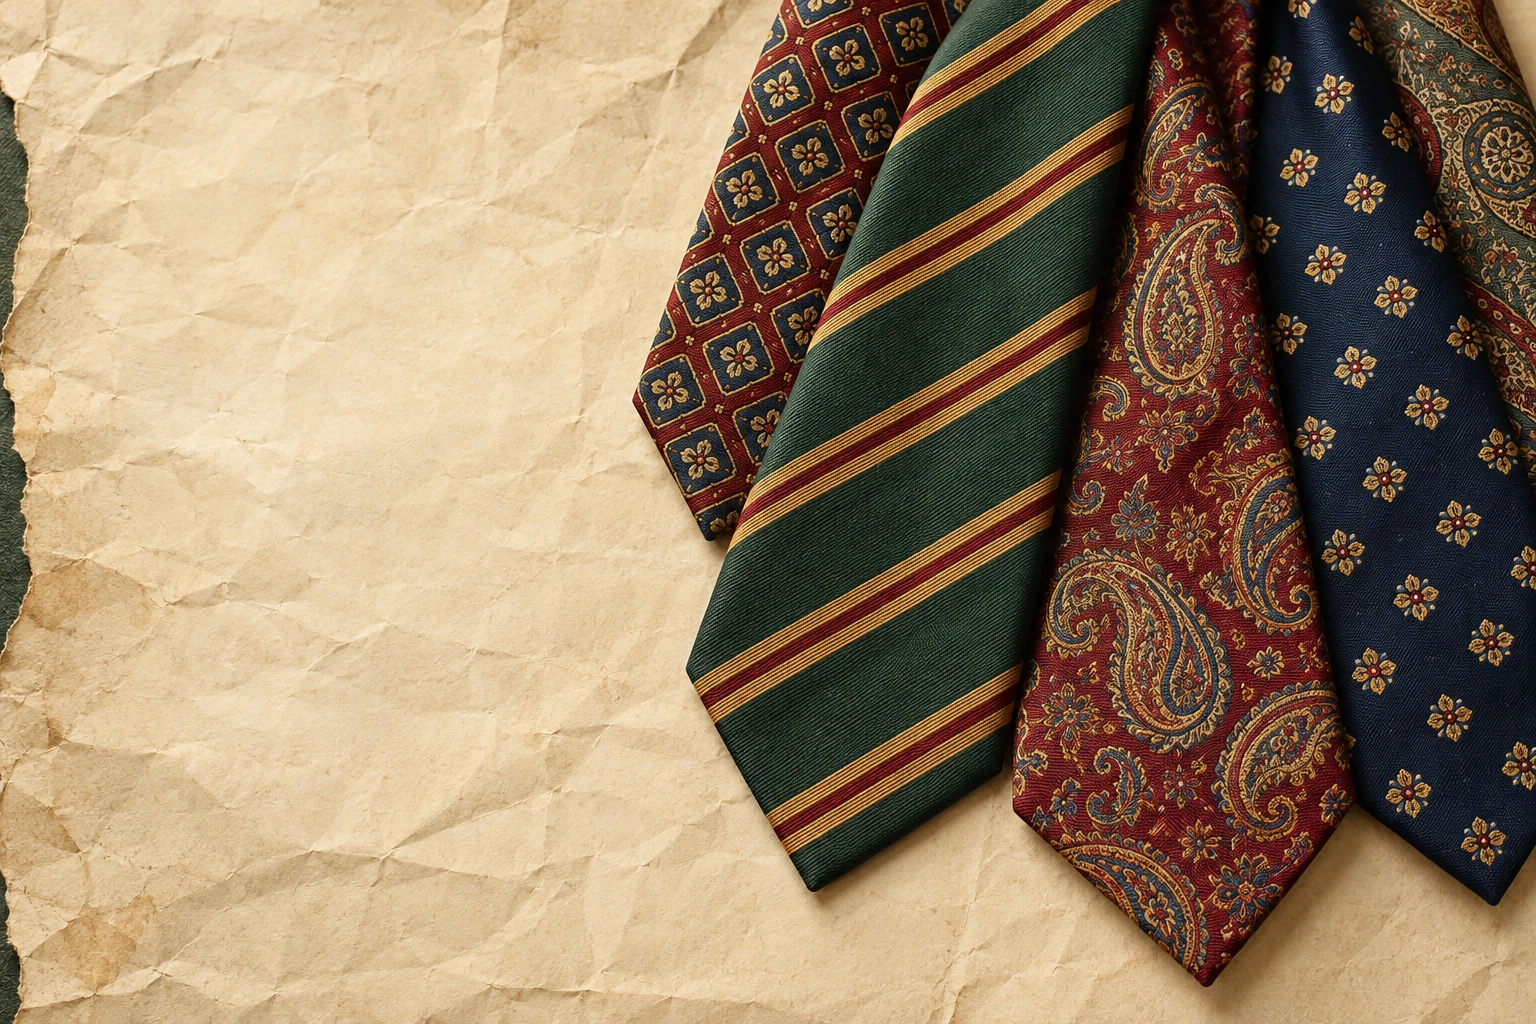
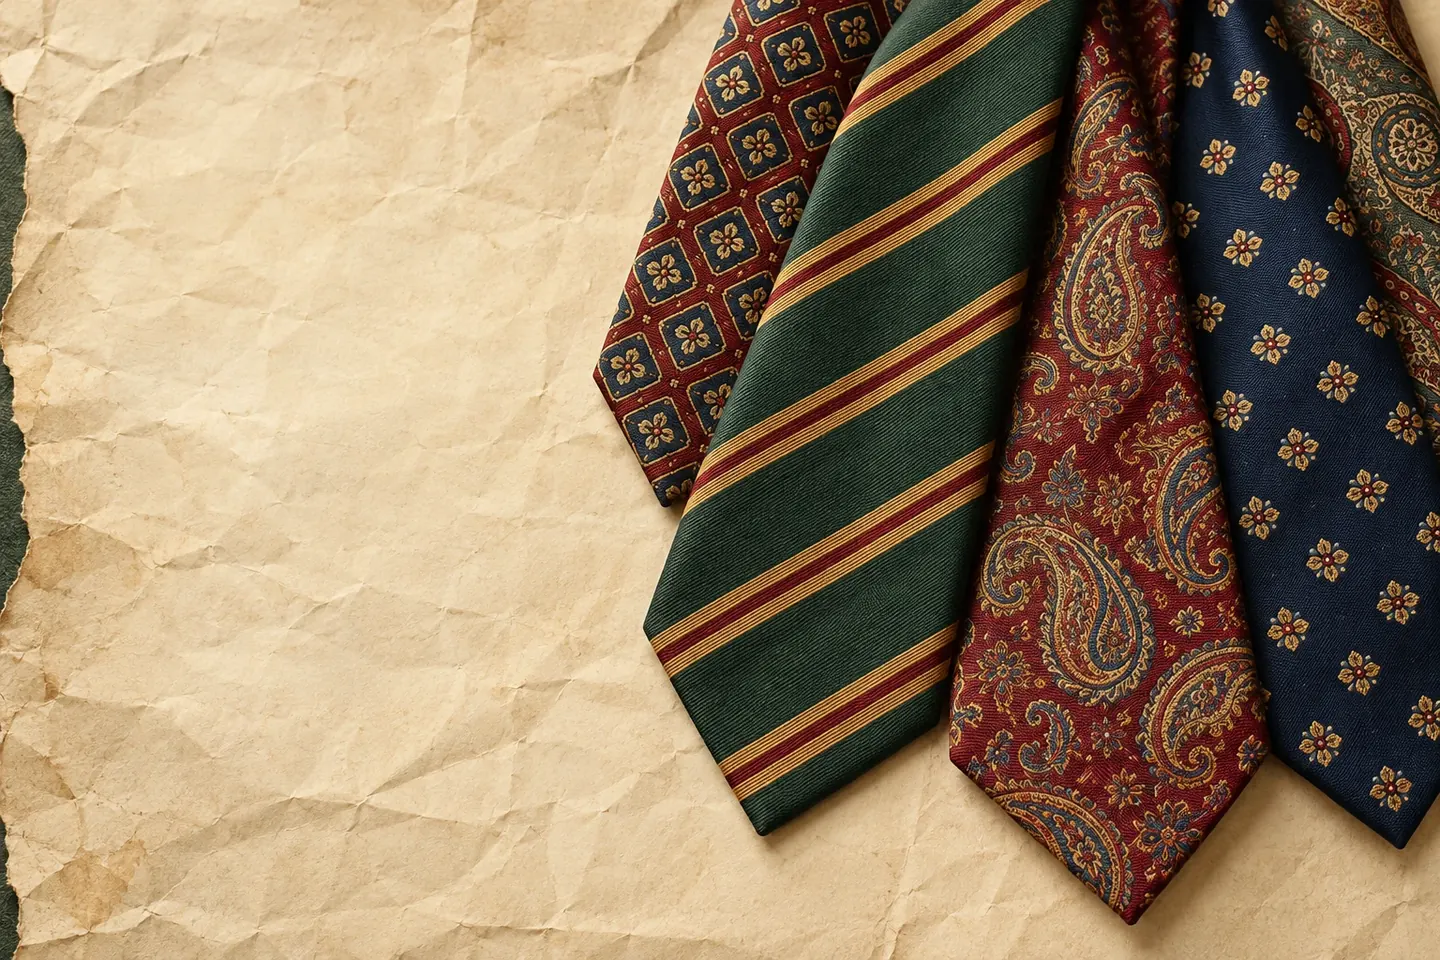
Improve storefront loading and image fallbacks

diff --git a/apps/web/components/products.tsx b/apps/web/components/products.tsx
@@ -7,7 +7,7 @@ import { Heart, Plus, ArrowRight, Search, Eye, Minus } from "lucide-react";
 import type { Product } from "../../../packages/shared";
 import { money } from "../../../packages/shared";
 import { api } from "@/lib/api";
-import { productImageUrl, productImageSrcSet } from "@/lib/cloudinary-image";
+import { productImageUrl, productImageSrcSet, useUnavailableImage } from "@/lib/cloudinary-image";
 import { useStore } from "@/lib/store";
 import { Star, Smile } from "./doodles";
 import { ErrorBox, Modal } from "./ui";
@@ -40,6 +40,7 @@ export function ProductCard({
             <img
               src={productImageUrl(imageUrl, 640)}
               srcSet={productImageSrcSet(imageUrl, [320, 640, 960])}
+              onError={useUnavailableImage}
               sizes="(max-width: 600px) 50vw, (max-width: 1000px) 33vw, 25vw"
               alt={p.images[0]?.alt || p.title}
               loading={eagerImage ? "eager" : "lazy"}
@@ -91,6 +92,7 @@ export function ProductCard({
         <img
           src={productImageUrl(p.images[0]?.url, 960)}
           srcSet={productImageSrcSet(p.images[0]?.url, [480, 960, 1280])}
+          onError={useUnavailableImage}
           sizes="(max-width: 600px) 90vw, 480px"
           alt={p.title}
         />
@@ -138,10 +140,12 @@ export function ProductSkeletons() {
     </div>
   );
 }
-export function Featured() {
+export function Featured({ initial }: { initial?: ProductList }) {
   const { data, error, isPending, refetch } = useQuery({
     queryKey: ["featured"],
     queryFn: () => api<ProductList>("/products?featured=true&limit=4"),
+    initialData: initial,
+    staleTime: 300000,
   });
   return (
     <section className="featured paper">
@@ -168,7 +172,7 @@ export function Featured() {
               key={p.id}
               product={p}
               index={i}
-              eagerImage={false}
+              eagerImage={i === 0}
             />
           ))}
         </div>

diff --git a/apps/web/components/product-detail.tsx b/apps/web/components/product-detail.tsx
@@ -14,7 +14,7 @@ import {
   Package,
 } from "lucide-react";
 import { api } from "@/lib/api";
-import { productImageUrl, productImageSrcSet } from "@/lib/cloudinary-image";
+import { productImageUrl, productImageSrcSet, useUnavailableImage } from "@/lib/cloudinary-image";
 import { useStore } from "@/lib/store";
 import { type Product, money } from "../../../packages/shared";
 import { ErrorBox } from "./ui";
@@ -77,7 +77,7 @@ export function ProductDetail({ slug, initial }: { slug: string; initial: Produc
                 aria-label={`View photo ${i + 1}`}
                 aria-pressed={selected === i}
               >
-                <img src={productImageUrl(img.url, 160)} alt={img.alt} />
+                <img src={productImageUrl(img.url, 160)} alt={img.alt} onError={useUnavailableImage} />
               </button>
             ))}
           </div>
@@ -85,6 +85,7 @@ export function ProductDetail({ slug, initial }: { slug: string; initial: Produc
             <img
               src={productImageUrl(p.images[selected]?.url || p.images[0]?.url, 1200)}
               srcSet={productImageSrcSet(p.images[selected]?.url || p.images[0]?.url, [480, 800, 1200, 1600])}
+              onError={useUnavailableImage}
               sizes="(max-width: 850px) 90vw, 50vw"
               alt={p.images[selected]?.alt || p.title}
               width={384}

diff --git a/apps/web/app/globals.css b/apps/web/app/globals.css
@@ -182,7 +182,7 @@ textarea {
   padding: 0;
 }
 .header {
-  height: 108px;
+  height: 124px;
   position: relative;
   z-index: 10;
   display: flex;
@@ -273,8 +273,8 @@ textarea {
 }
 .brand img {
   display: block;
-  width: 80px;
-  height: 80px;
+  width: 104px;
+  height: 104px;
   object-fit: contain;
 }
 .brand > span {
@@ -2612,8 +2612,12 @@ td select {
     padding: 0;
   }
   .header {
-    height: 88px;
+    height: 96px;
     padding: 0 25px;
+  }
+  .header .brand img {
+    width: 82px;
+    height: 82px;
   }
   .brand-wrap > .doodle {
     display: none;
@@ -2888,7 +2892,7 @@ td select {
     padding: 0;
   }
   .header {
-    height: 83px;
+    height: 90px;
     border-radius: 0;
     padding: 0 15px;
     border-bottom: 1px solid #dccfb5;
@@ -2912,9 +2916,9 @@ td select {
     font-size: 29px;
     letter-spacing: -1px;
   }
-  .brand img {
-    width: 64px;
-    height: 64px;
+  .header .brand img {
+    width: 76px;
+    height: 76px;
   }
   .brand > small {
     font-size: 5.5px;

diff --git a/apps/web/components/cart.tsx b/apps/web/components/cart.tsx
@@ -4,7 +4,7 @@ import { useQuery } from "@tanstack/react-query";
 import { ArrowRight, Minus, Plus, Trash2, ShoppingBag } from "lucide-react";
 import { useStore } from "@/lib/store";
 import { api, type Settings } from "@/lib/api";
-import { productImageUrl } from "@/lib/cloudinary-image";
+import { productImageUrl, useUnavailableImage } from "@/lib/cloudinary-image";
 import { money } from "../../../packages/shared";
 export function CartContents({ drawer = false }: { drawer?: boolean }) {
   const s = useStore();
@@ -42,7 +42,7 @@ export function CartContents({ drawer = false }: { drawer?: boolean }) {
                   href={`/product/${p.slug}`}
                   onClick={() => s.setCart(false)}
                 >
-                  <img src={productImageUrl(p.images[0]?.url, 160)} alt={p.title} />
+                  <img src={productImageUrl(p.images[0]?.url, 160)} alt={p.title} onError={useUnavailableImage} />
                 </Link>
                 <div>
                   <Link

diff --git a/apps/web/components/checkout.tsx b/apps/web/components/checkout.tsx
@@ -11,7 +11,7 @@ import {
   money,
 } from "../../../packages/shared";
 import { api, type Settings } from "@/lib/api";
-import { productImageUrl } from "@/lib/cloudinary-image";
+import { productImageUrl, useUnavailableImage } from "@/lib/cloudinary-image";
 import { useStore } from "@/lib/store";
 import { ErrorBox } from "./ui";
 import { Smile } from "./doodles";
@@ -414,7 +414,7 @@ export function Checkout() {
           {s.items.map(({ product: p, quantity }) => (
             <div className="cart-item" key={p.id}>
               <Link href={`/product/${p.slug}`}>
-                <img src={productImageUrl(p.images[0]?.url, 160)} alt={p.title} />
+                <img src={productImageUrl(p.images[0]?.url, 160)} alt={p.title} onError={useUnavailableImage} />
               </Link>
               <div>
                 <Link href={`/product/${p.slug}`}>{p.title}</Link>

diff --git a/apps/web/components/home.tsx b/apps/web/components/home.tsx
@@ -9,6 +9,7 @@ import {
 import { Star, Smile, ArrowDoodle } from "./doodles";
 import { Featured, MobileDiscovery } from "./products";
 import { SocialFollow } from "./social-follow";
+import type { Product } from "../../../packages/shared";
 export function Hero() {
   return (
     <section className="hero" aria-labelledby="hero-title">
@@ -178,11 +179,11 @@ export function SocialGallery() {
     </section>
   );
 }
-export default function HomePage() {
+export default function HomePage({ featured }: { featured?: { products: Product[]; total: number; pages: number; page: number } }) {
   return (
     <>
       <MobileDiscovery />
-      <Featured />
+      <Featured initial={featured} />
       <StoryBlock />
       <div className="bottom-collage">
         <div className="not-overdressed sticky-note">

diff --git a/apps/web/lib/catalog-server.ts b/apps/web/lib/catalog-server.ts
@@ -16,6 +16,18 @@ export async function catalog(page = 1, limit = 12, inStock = false): Promise<Pr
   }
 }
 
+export async function featuredCatalog(): Promise<ProductList | null> {
+  try {
+    const response = await fetch(`${origin}/api/products?featured=true&limit=4`, {
+      next: { revalidate: 300 },
+      signal: AbortSignal.timeout(5000),
+    });
+    return response.ok ? (await response.json()) as ProductList : null;
+  } catch {
+    return null;
+  }
+}
+
 export async function product(slug: string): Promise<Product | null> {
   try {
     const response = await fetch(`${origin}/api/products/${encodeURIComponent(slug)}`, {

diff --git a/apps/web/lib/cloudinary-image.ts b/apps/web/lib/cloudinary-image.ts
@@ -1,4 +1,12 @@
 const cloudName = process.env.NEXT_PUBLIC_CLOUDINARY_CLOUD_NAME;
+export const unavailableImage = "/images/photo-unavailable.svg";
+
+export function useUnavailableImage(event: React.SyntheticEvent<HTMLImageElement>) {
+  const image = event.currentTarget;
+  if (image.getAttribute("src") === unavailableImage) return;
+  image.removeAttribute("srcset");
+  image.src = unavailableImage;
+}
 
 export function productImageUrl(src: string | undefined, width: number) {
   if (!src || !cloudName) return src || "";

diff --git a/apps/web/components/shell.tsx b/apps/web/components/shell.tsx
@@ -24,7 +24,7 @@ const links = [
 export function Brand() {
   return (
     <Link href="/" className="brand" aria-label="Almost Formal home">
-      <img src="/images/almost-formal-green-logo.webp" alt="Almost Formal" width={80} height={80} />
+      <img src="/images/almost-formal-green-logo.webp" alt="Almost Formal" width={104} height={104} fetchPriority="high" />
     </Link>
   );
 }

diff --git a/apps/web/app/page.tsx b/apps/web/app/page.tsx
@@ -1,2 +1,7 @@
 import HomePage from "@/components/home";
-export default HomePage;
+import { featuredCatalog } from "@/lib/catalog-server";
+
+export default async function Page() {
+  const featured = await featuredCatalog();
+  return <HomePage featured={featured || undefined} />;
+}
